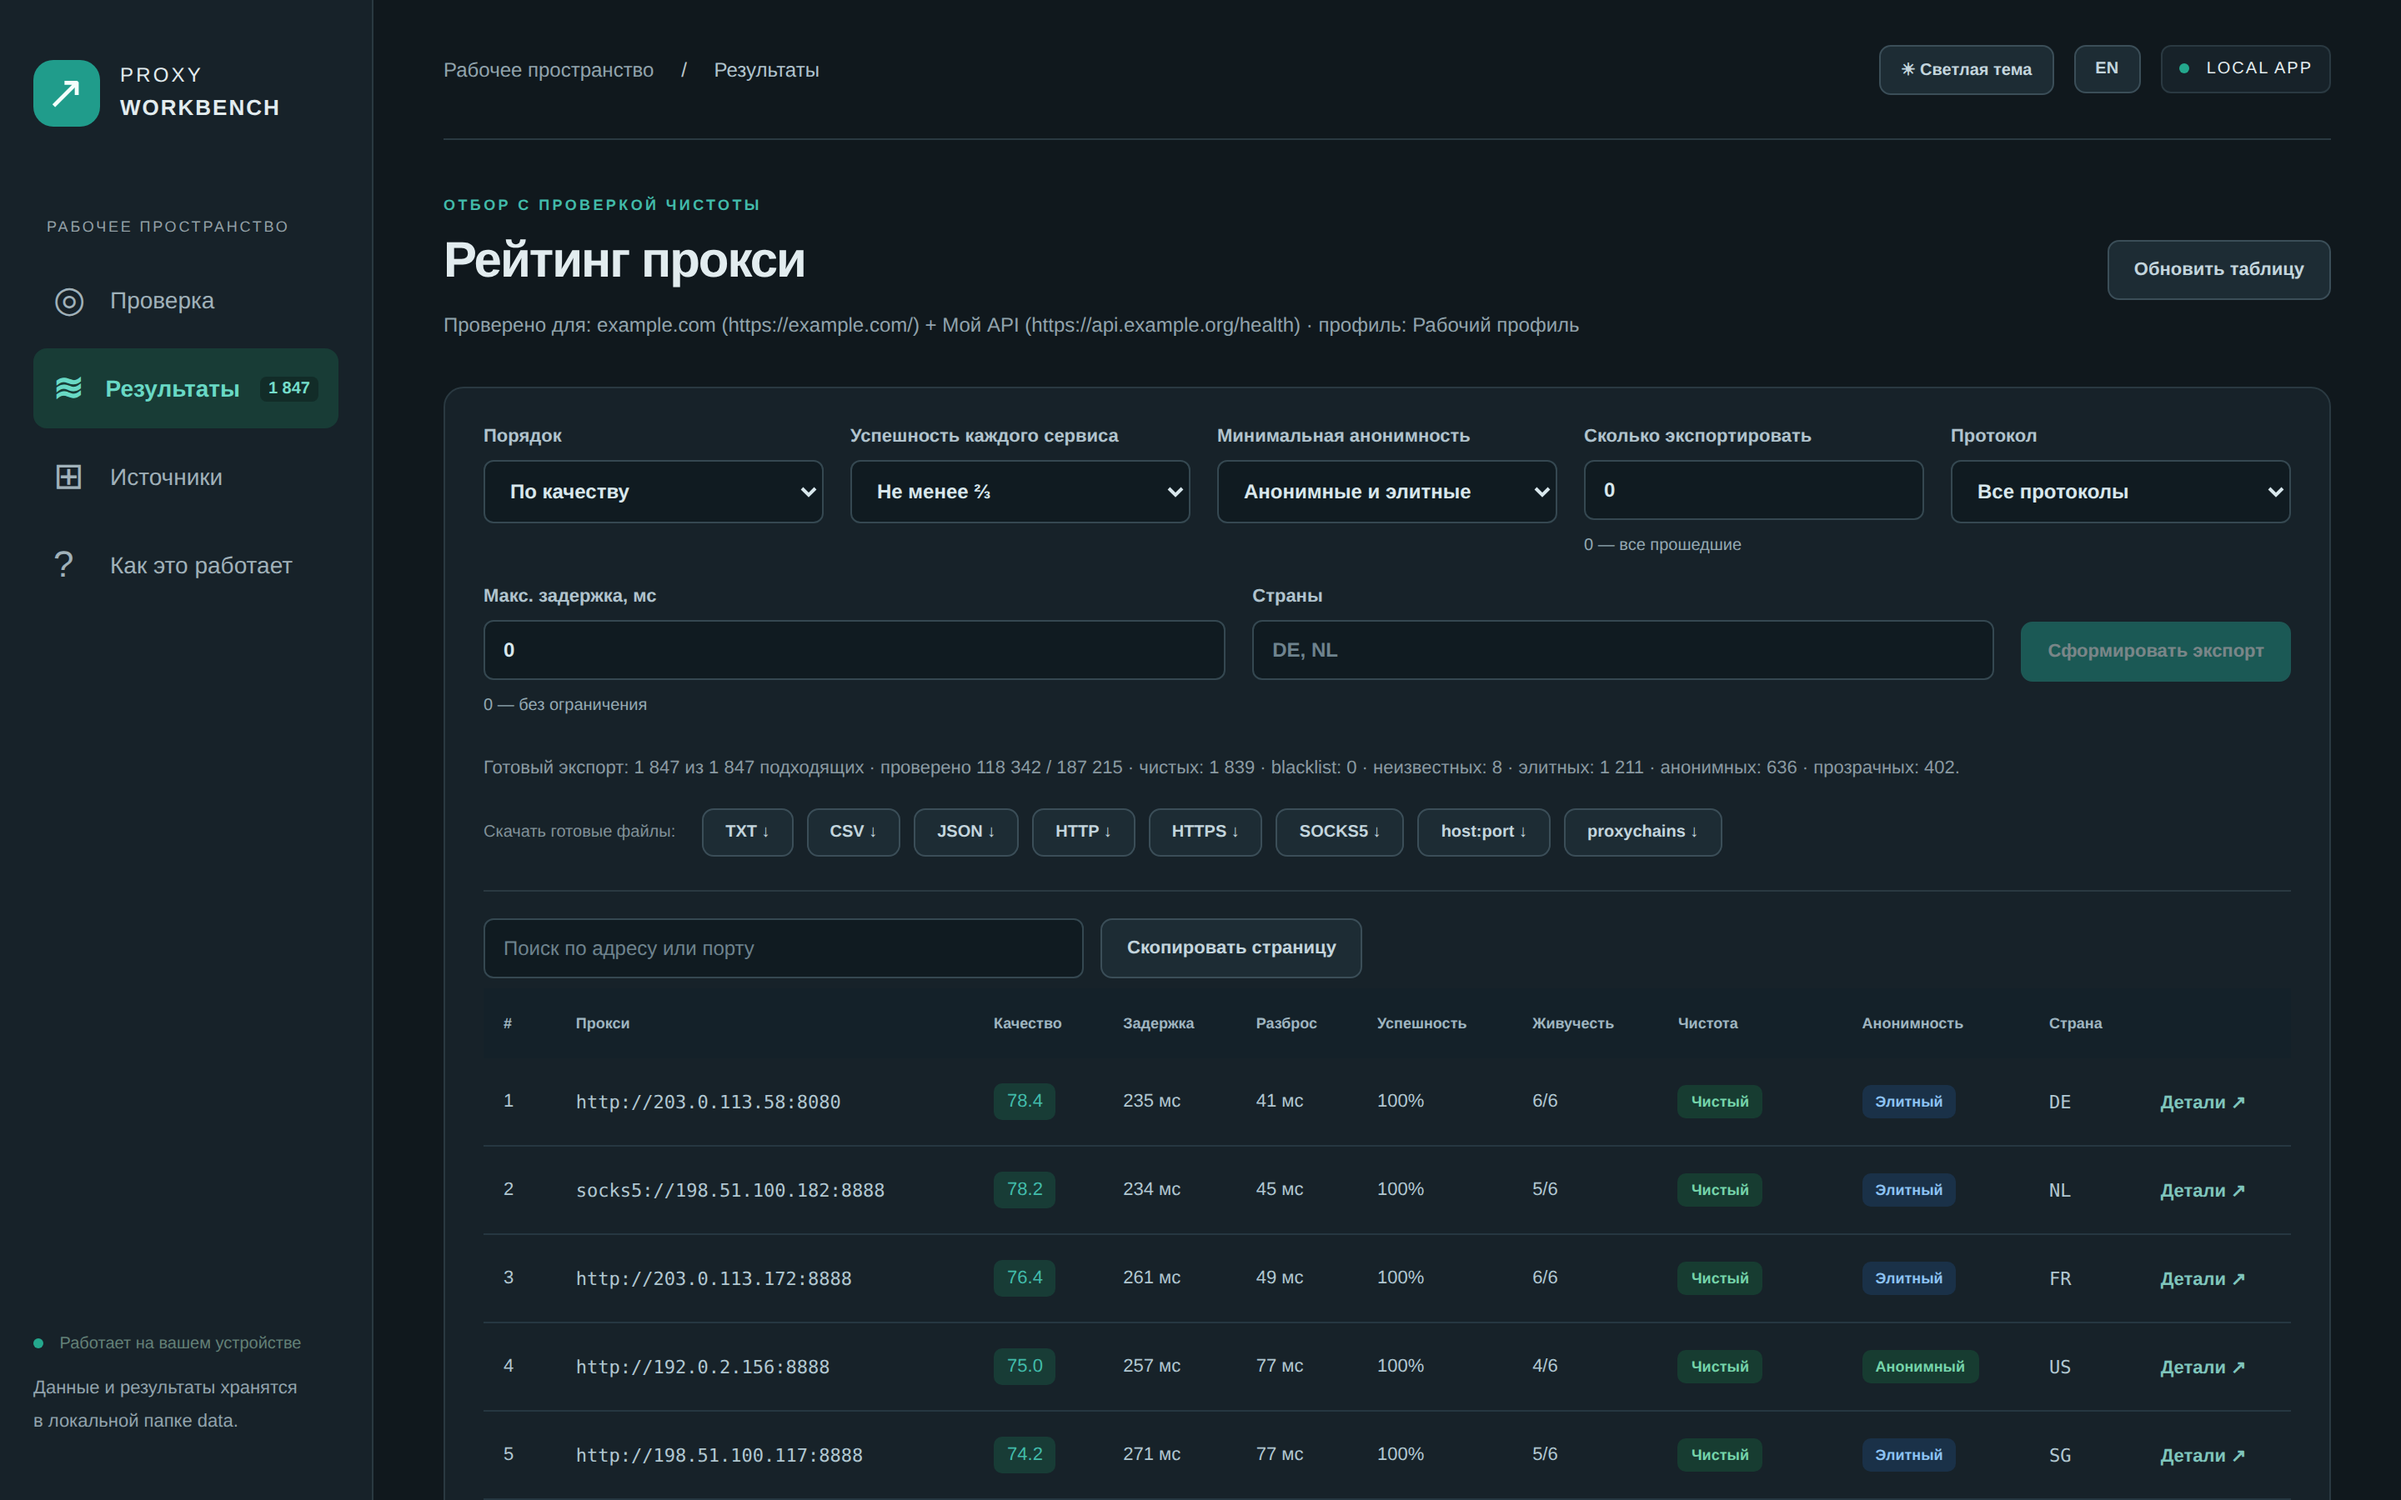
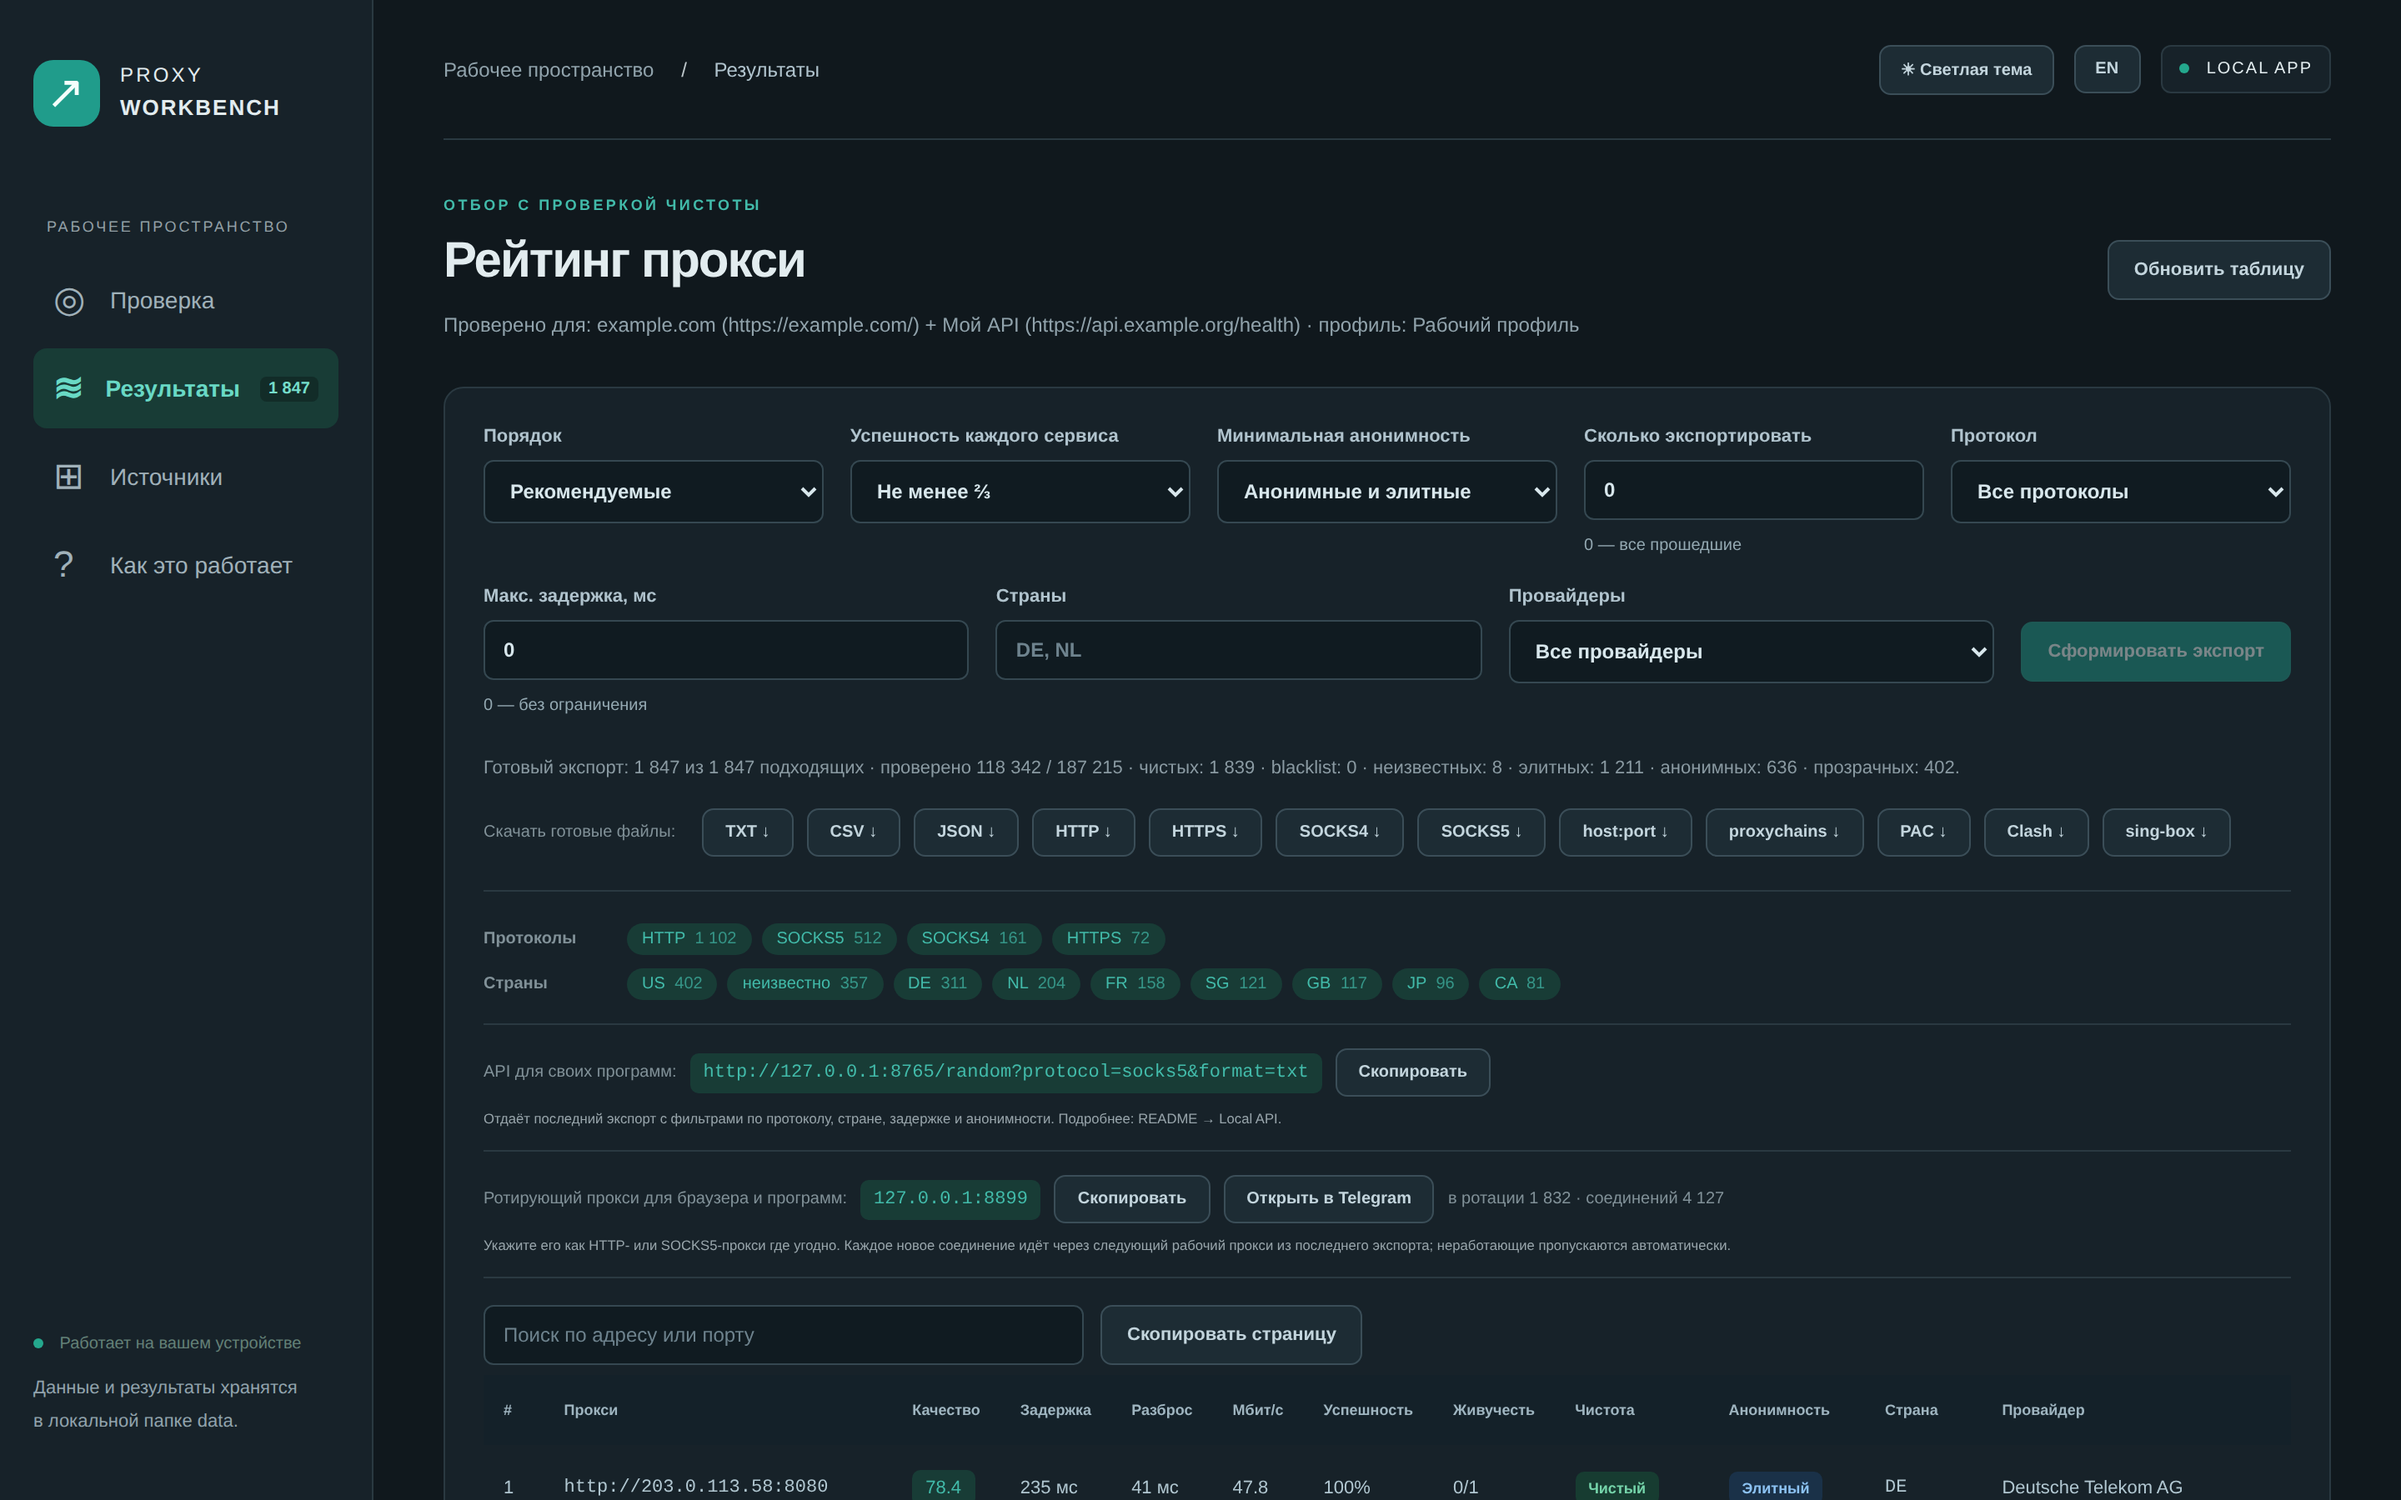
Refresh screenshots and landing page; time speed tests with perf_counter (#23)
* Refresh screenshots and landing page for 2.2

Screenshots (EN and RU, synthetic documentation-range data) show the
recommended order, Mbit/s and Provider columns, the protocol/country
summary, the API line and the rotating proxy with its Telegram button.

* Time speed tests with perf_counter

On Windows time.monotonic() advances in ~16 ms steps, so a fast download
could measure zero seconds and lose its Mbit/s value.

---------

diff --git a/docs/index.html b/docs/index.html
@@ -81,6 +81,9 @@ footer{padding:56px 0 40px;color:var(--muted);font-size:14px;display:flex;flex-w
       <div class="card"><h3>Ranked by real speed</h3><p>Several attempts per service, median latency, jitter and success rate combined into one quality score.</p></div>
       <div class="card"><h3>Big lists, stop &amp; resume</h3><p>Bounded worker queue and rate limiter, tested with 190,000 candidates. Progress lives in SQLite, so stopping never loses work.</p></div>
       <div class="card"><h3>Ready-to-use exports</h3><p>TXT, CSV, JSON plus <code>http.txt</code>, <code>https.txt</code>, <code>socks5.txt</code> in plain <code>host:port</code> format for your scraper or browser.</p></div>
+      <div class="card"><h3>Recommended first</h3><p>Fast proxies that survive re-checks, come from lists with a good record and appear in few lists go to the top: less crowded, so they live longer.</p></div>
+      <div class="card"><h3>Real speed and provider</h3><p>Optional speed test in Mbit/s; every proxy shows its provider, and hosting or data-centre ranges can be skipped.</p></div>
+      <div class="card"><h3>Built for scrapers</h3><p>Pick country, protocol and a sticky session in the proxy user name: <code>country-de-session-1</code>. Or script it: <code>proxy-workbench get --top 5</code>.</p></div>
       <div class="card"><h3>Rotating proxy gateway</h3><p>Point a browser, Telegram or any app at <code>127.0.0.1:8899</code>: every connection goes out through the next working proxy, dead ones are skipped.</p></div>
       <div class="card"><h3>Local API for your code</h3><p><code>GET /random?protocol=socks5&amp;country=DE</code> returns a fresh working proxy, so scripts and bots pick one with a single request.</p></div>
     </div>

diff --git a/proxy_workbench/proxytool.py b/proxy_workbench/proxytool.py
@@ -979,7 +979,8 @@ async def measure_speed(proxy, config, rate):
     await rate.wait()
     test = config['speedtest']
     result = dict(mbps=None, bytes=0, ms=None, error=None)
-    started = time.monotonic()
+    # perf_counter: the Windows monotonic clock ticks every ~16 ms, too coarse for fast transfers.
+    started = time.perf_counter()
     try:
         async with asyncio.timeout(max(config['timeout'], 30)):
             async with proxy_client(proxy, config) as client:
@@ -990,18 +991,18 @@ async def measure_speed(proxy, config, rate):
                         return result
                     first = None
                     async for chunk in response.aiter_raw():
-                        first = first or time.monotonic()
+                        first = first or time.perf_counter()
                         result['bytes'] += len(chunk)
                         if result['bytes'] >= test['max_bytes']:
                             break
-                    elapsed = time.monotonic() - (first or started)
-                    if result['bytes'] and elapsed > 0:
+                    elapsed = max(time.perf_counter() - (first or started), 1e-6)
+                    if result['bytes']:
                         result['mbps'] = round(result['bytes'] * 8 / elapsed / 1e6, 2)
     except (httpx.HTTPError, TimeoutError, OSError) as exc:
         result['error'] = type(exc).__name__
         # A partial download still says something about the speed.
     finally:
-        result['ms'] = round((time.monotonic() - started) * 1000, 2)
+        result['ms'] = round((time.perf_counter() - started) * 1000, 2)
     return result
 
 
